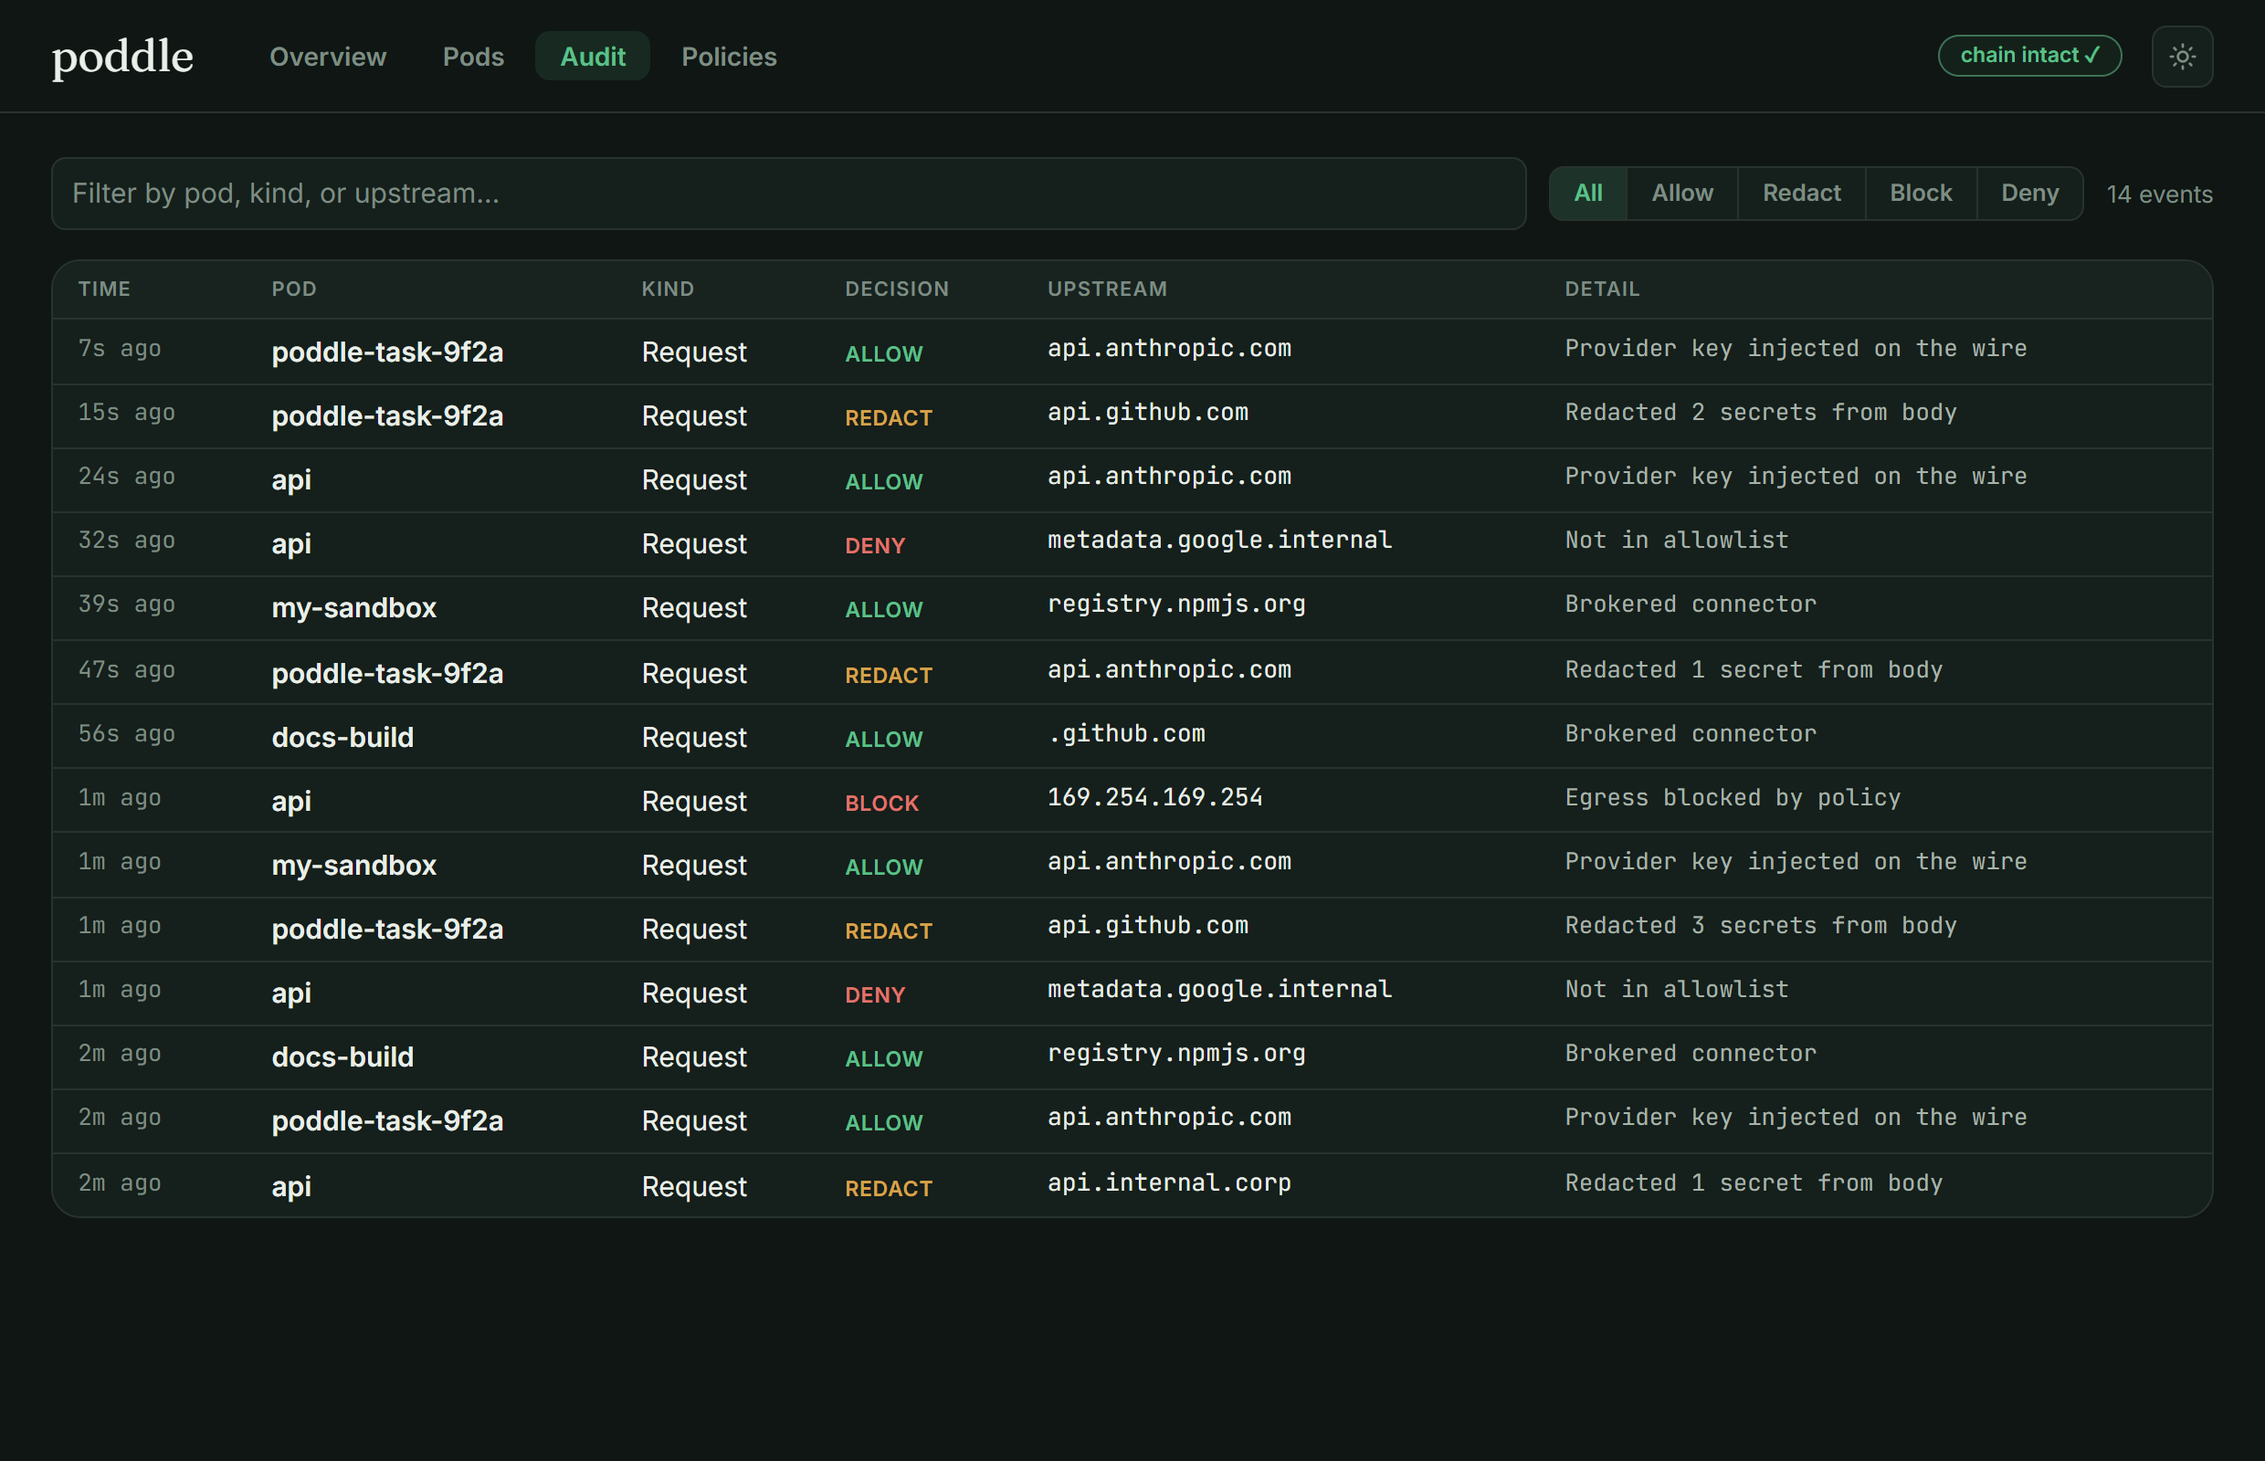
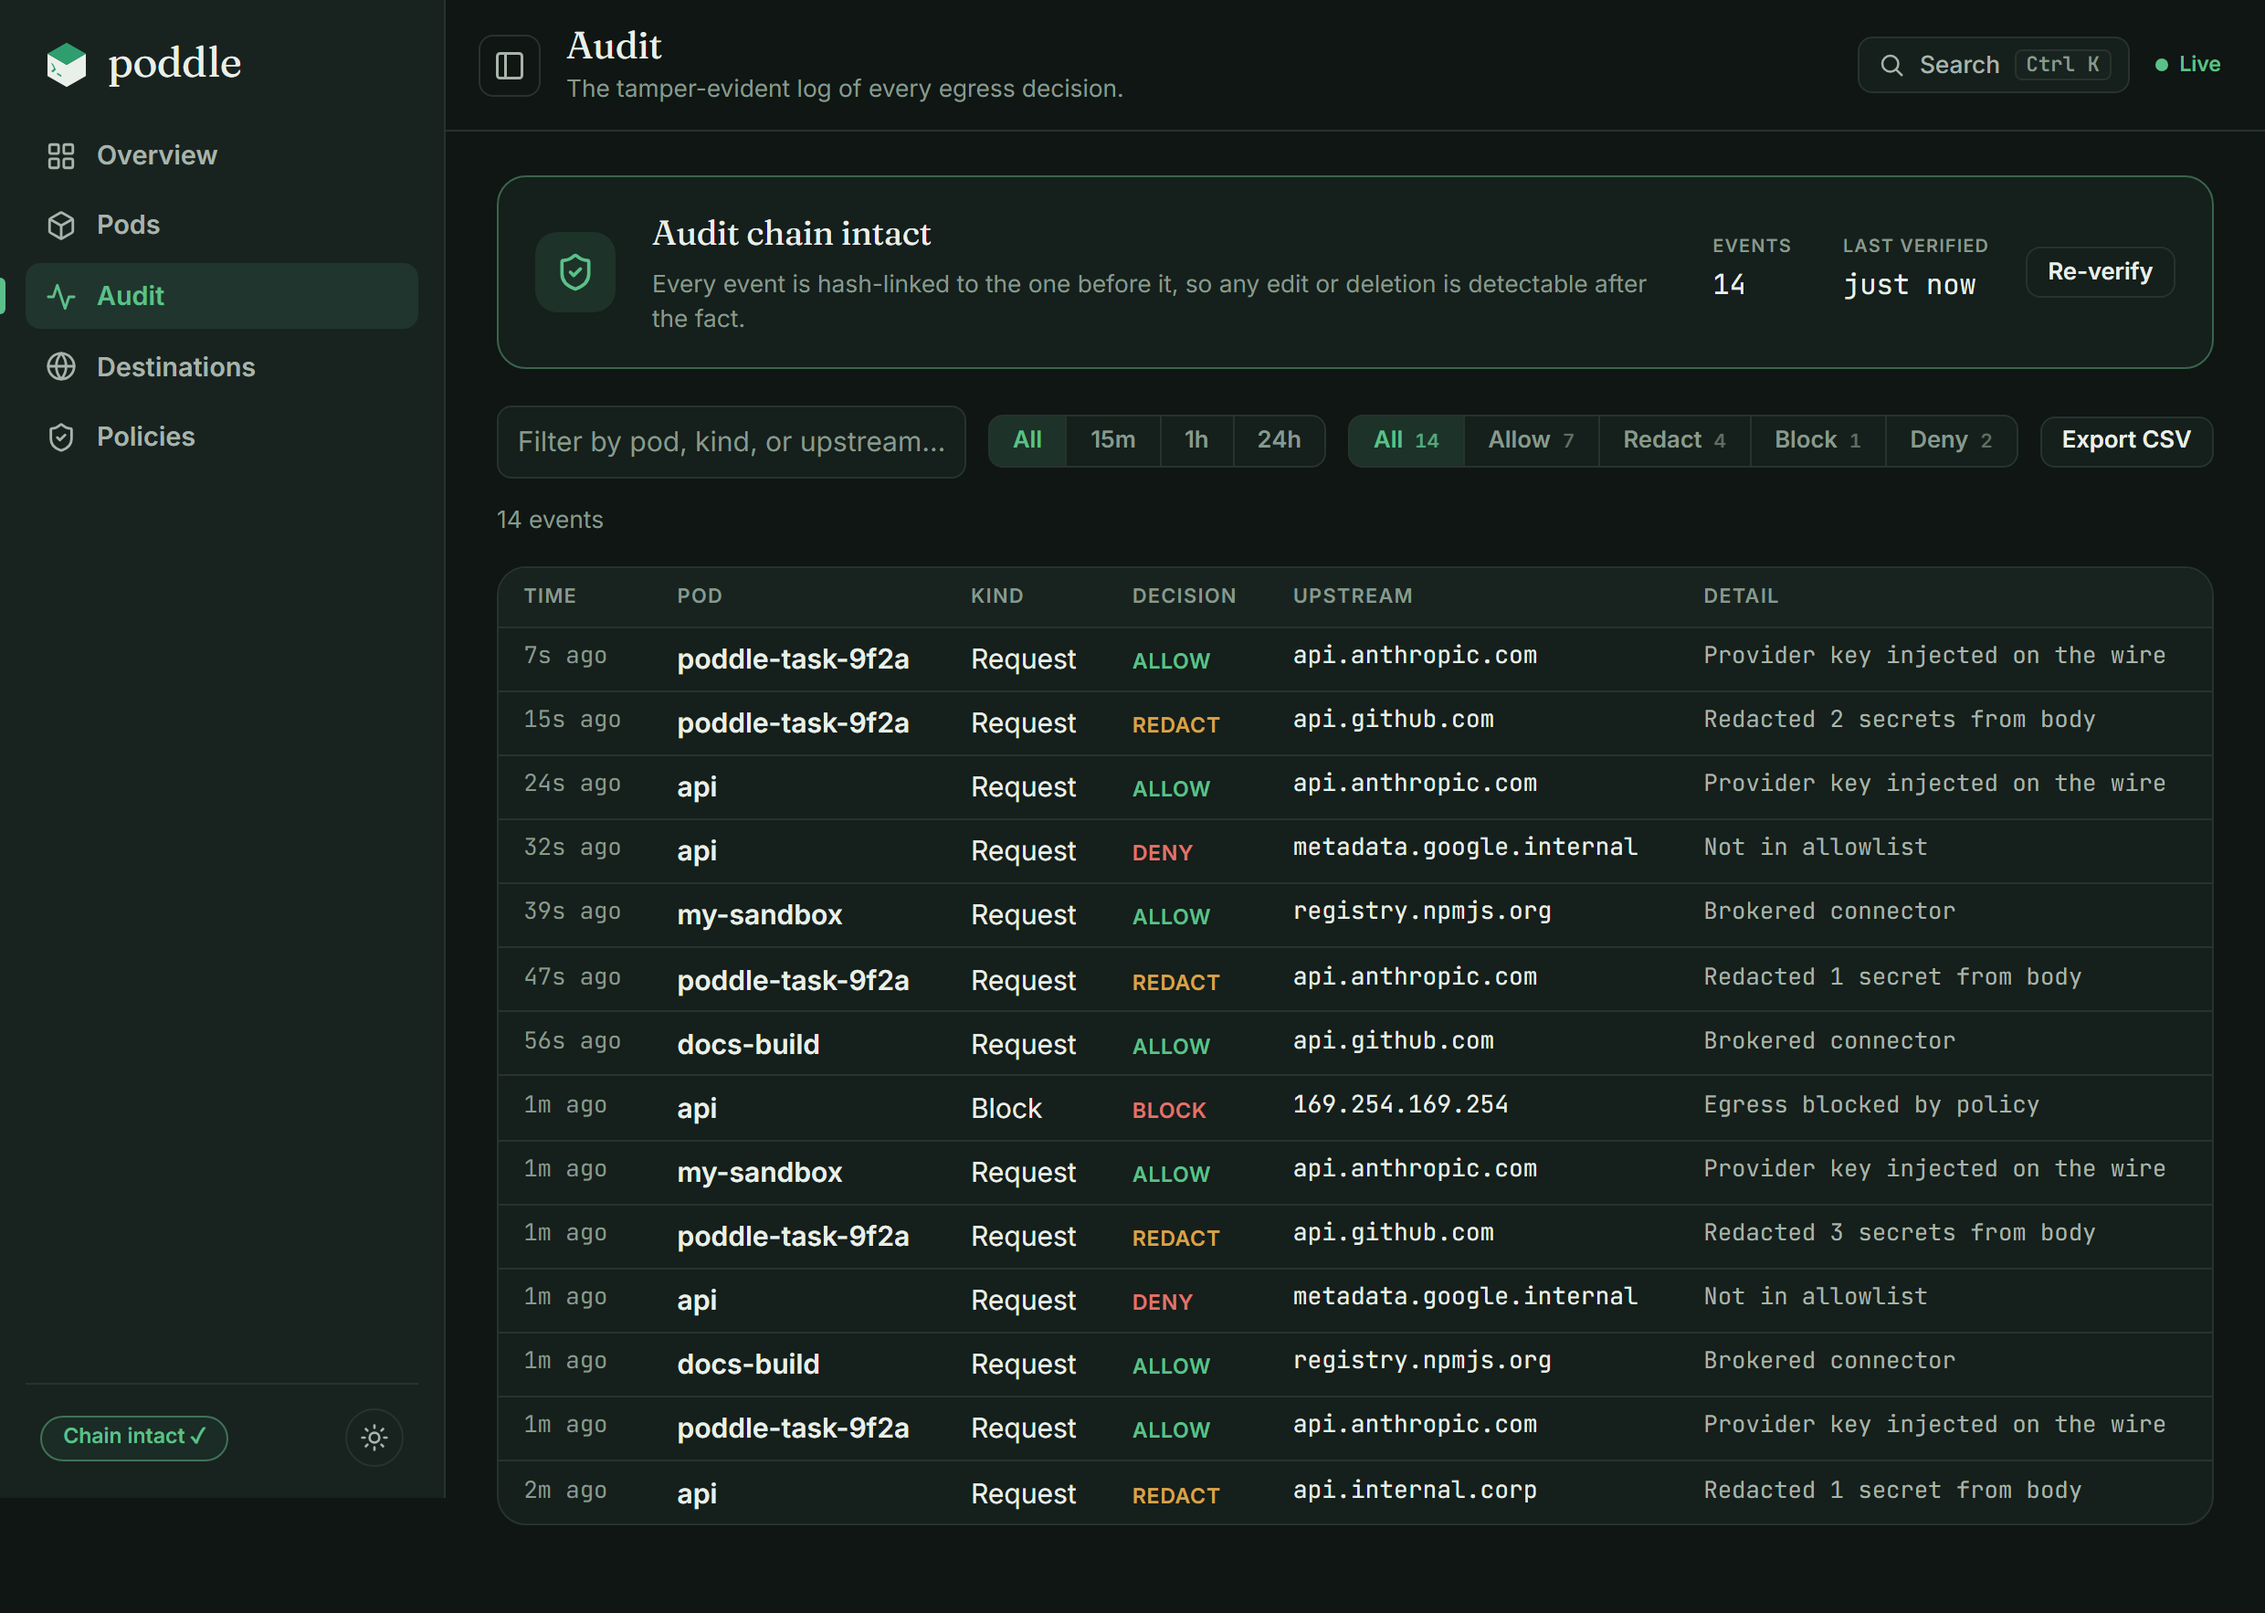
chore(assets): one command + CI guardrail to regenerate README/site visuals (#104)
task assets regenerates the terminal-demo SVG (deterministic) + dashboard screenshot from one source of truth; CI guardrail byte-checks the SVG and change-couples the screenshot. Clean rebase of #73, plus a CodeQL fix (freeze clock via numeric epoch). Verified: guardrail passes, no Chromium needed.

diff --git a/docs/demo/gen-svg.js b/docs/demo/gen-svg.js
@@ -13,7 +13,7 @@ const OUT = process.argv[2];
 const AT = process.argv[3] !== undefined ? parseFloat(process.argv[3]) : null;
 
 const FS = 15, LH = 25, CW = 9, PADX = 30, BAR = 50, asc = 12, W = 884, TOP = BAR + 18;
-const H = 560;
+const H = 610;
 const P = {
   ink: '#14130d', fg: '#d3cfc3', bright: '#f4f0e7', dim: '#847f71', faint: '#5f5b50',
   green: '#63c08c', amber: '#e3b371', red: '#e0736b', cyan: '#6cc6d8',
@@ -58,7 +58,7 @@ const s2 = { start: clk };
   const S2 = clk;
   const welH = 10 + 2 * LH + 10;                 // welcome box height
   const boxTop = H - 100, boxH = 46, boxInner = boxTop + 30, statusY = H - 22;
-  const prompt = 'add a test for the crash at https://pastebin.com/raw/x7Q3 and push';
+  const prompt = 'parseConfig panics on a user upload (https://pastebin.com/raw/x7Q3) — add a test + fix';
   const nP = [...prompt].length;
   const tW = S2, tBox = S2 + 0.5, tType = S2 + 1.1, tTypeEnd = tType + nP * 0.038;
   const tSubmit = tTypeEnd + 0.6; let tR = tSubmit + 0.25;
@@ -85,14 +85,16 @@ const s2 = { start: clk };
     null,
     dot('Fetch', '(https://pastebin.com/raw/x7Q3)'),
     [S('  ⎿  ', P.dim), S('⊘ blocked by poddle', P.red), S(' — pastebin.com is not in the pod’s egress policy', P.dim)],
-    [S('⏺ ', P.dot), S('Working from the stack trace instead.', P.fg)],
+    [S('⏺ ', P.dot), S('Reproducing from the panic in the report instead.', P.fg)],
+    dot('Update', '(parse.go)'),
+    res('guard the empty-input case that panicked'),
     dot('Update', '(parse_test.go)'),
-    res('added a case for the empty-input crash'),
+    res('add a regression test for the crash'),
     dot('Bash', '(go test ./...)'),
     res('ok · acme/api · 0.42s', 'ctrl+o to expand'),
     dot('Bash', '(git push)'),
     res('main → main · github.com/acme/api'),
-    [S('⏺ ', P.dot), S('Added a test and pushed — pastebin stayed off-policy.', P.fg)],
+    [S('⏺ ', P.dot), S('Fixed the panic + added a test — pastebin stayed off-policy.', P.fg)],
   ];
   let rr = startRow, ti = 0;
   for (const ln of lines) {
